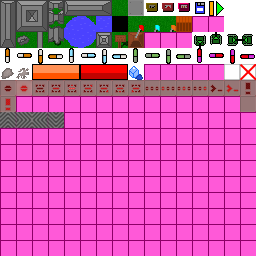
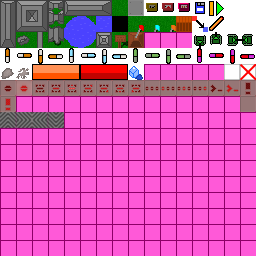
Still working on map editor

Changed region(s): [[0.75, 0.0625, 0.875, 0.125]]

diff --git a/game/screen/ScreenMapEditor.java b/game/screen/ScreenMapEditor.java
@@ -63,7 +63,7 @@ public class ScreenMapEditor extends Screen {
 		g.setColor(new Color(255,255,255,155));
 		g.fillRect(0, 500, Game.WIDTH, 100);
 		drawSelectionGrid(10, 520, 7,"Tile", g);
-		drawSelectionGrid(104, 520, 12,"Tool", g);
+		drawSelectionGrid(104, 520, 28,"Tool", g);
 		
 
 	}
